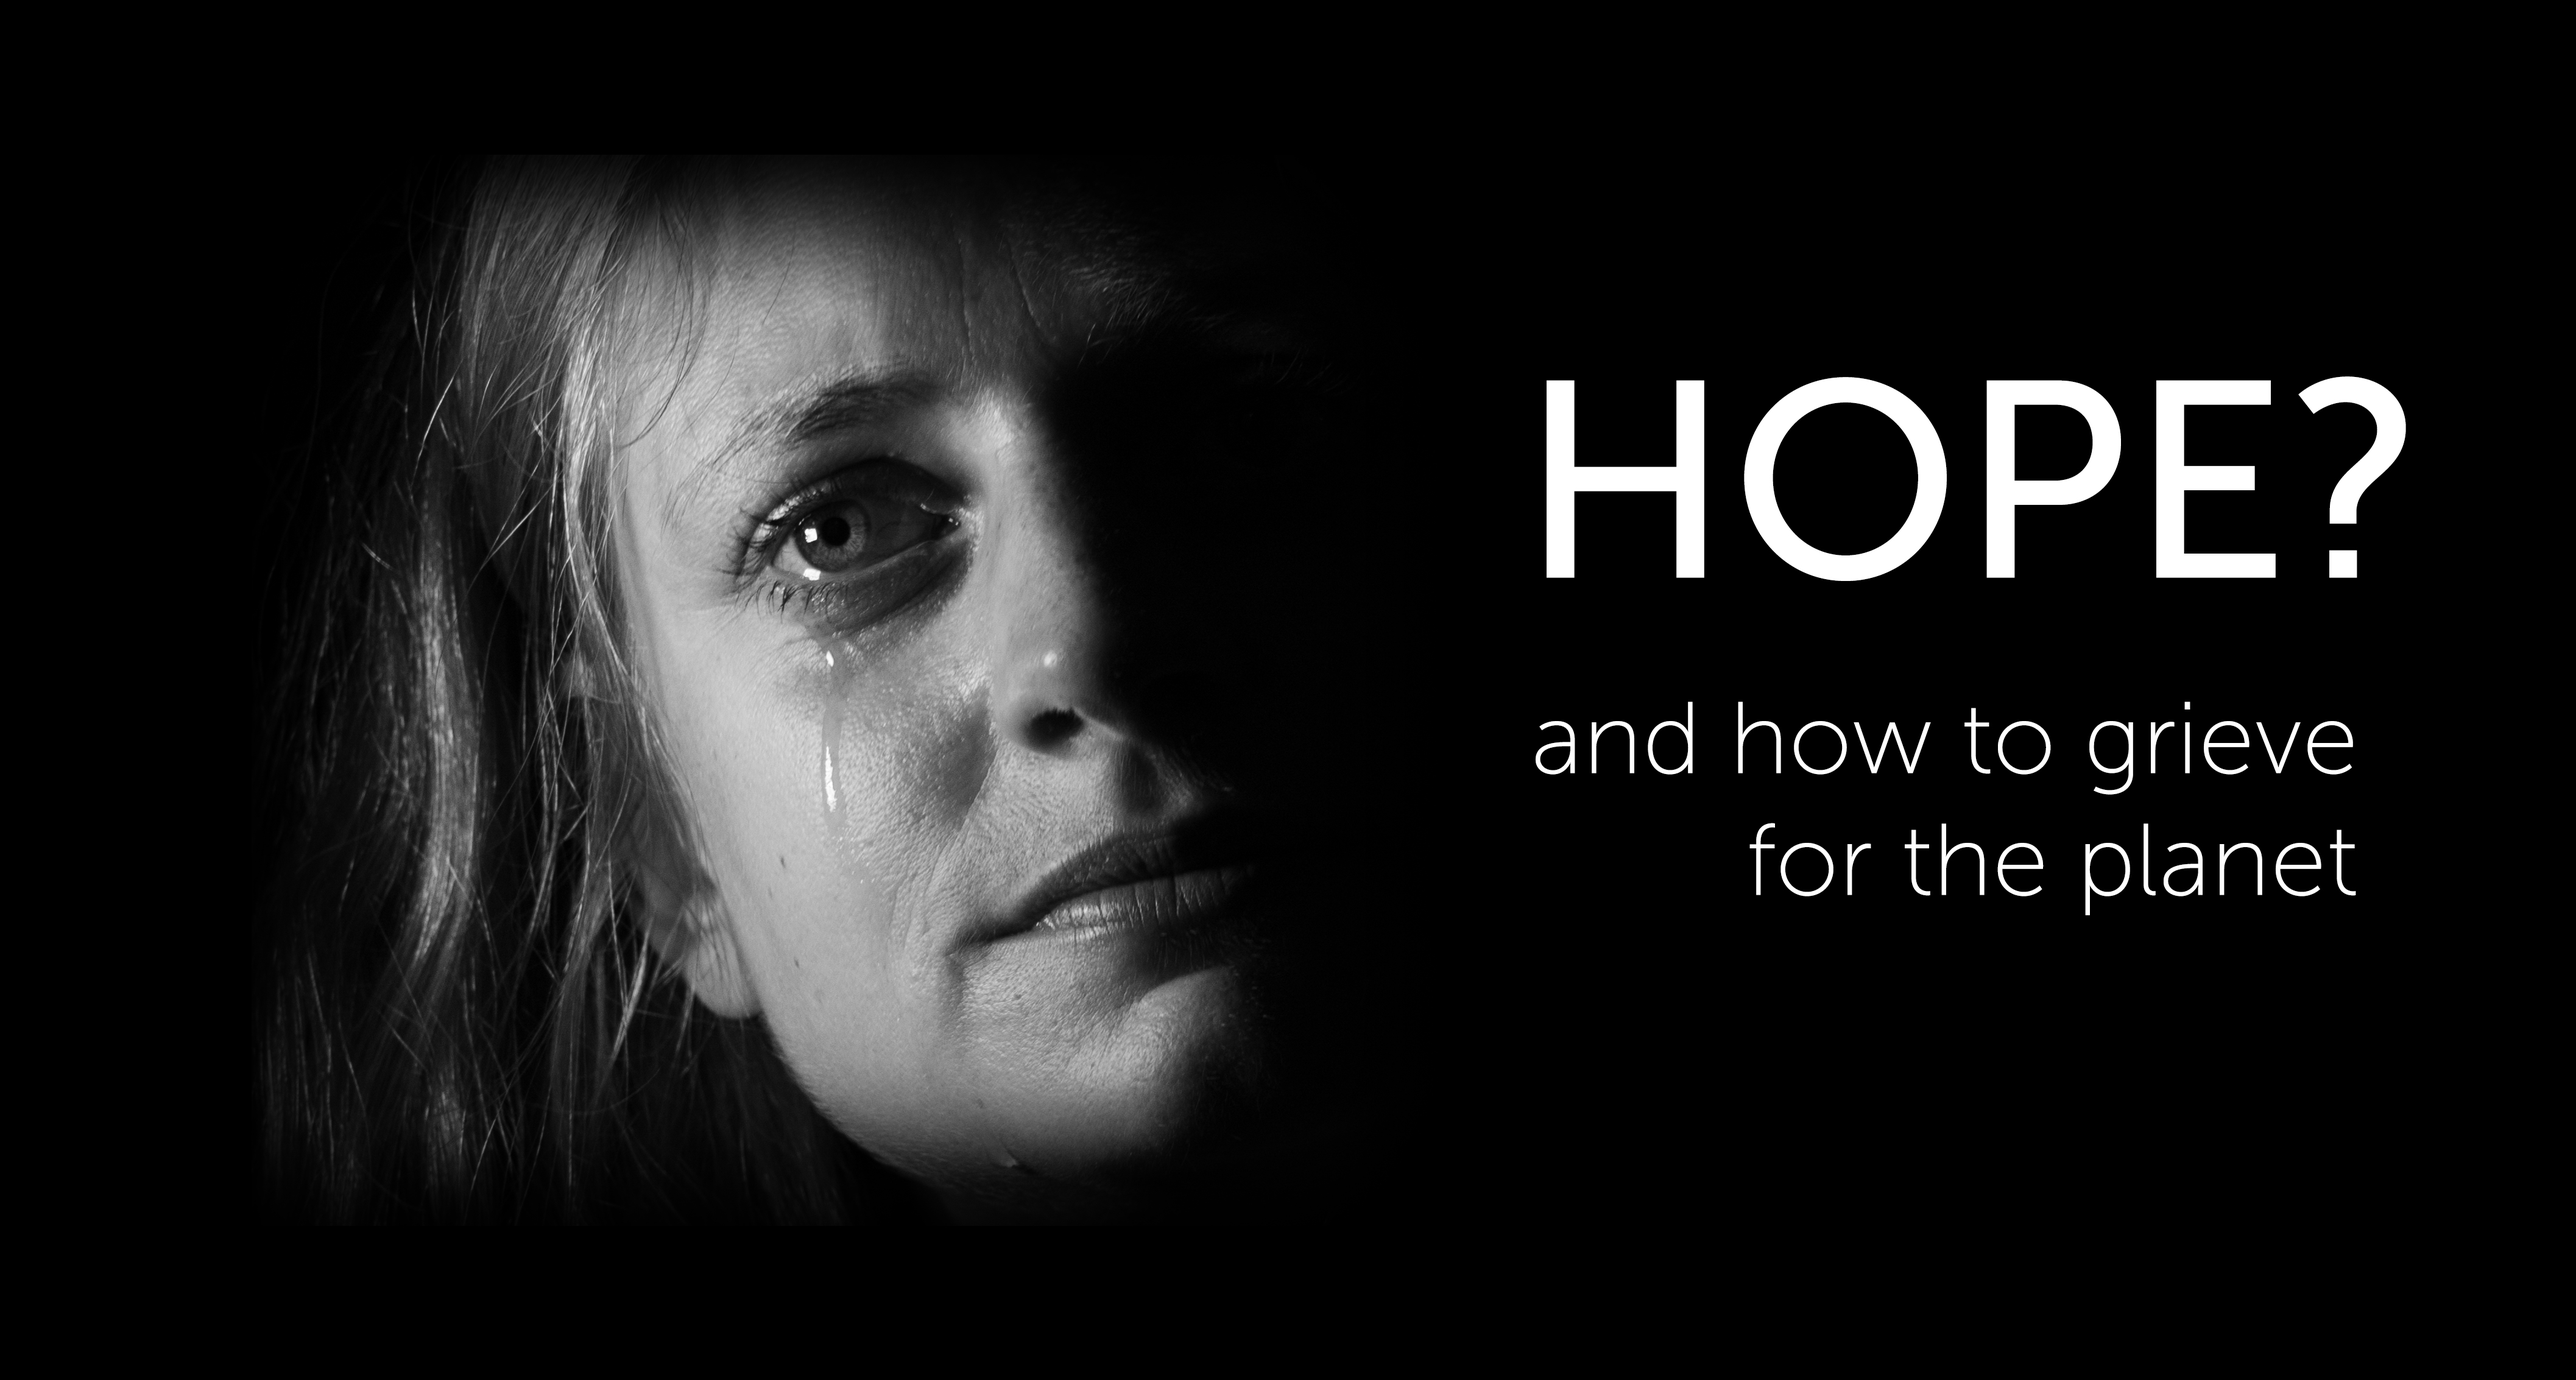
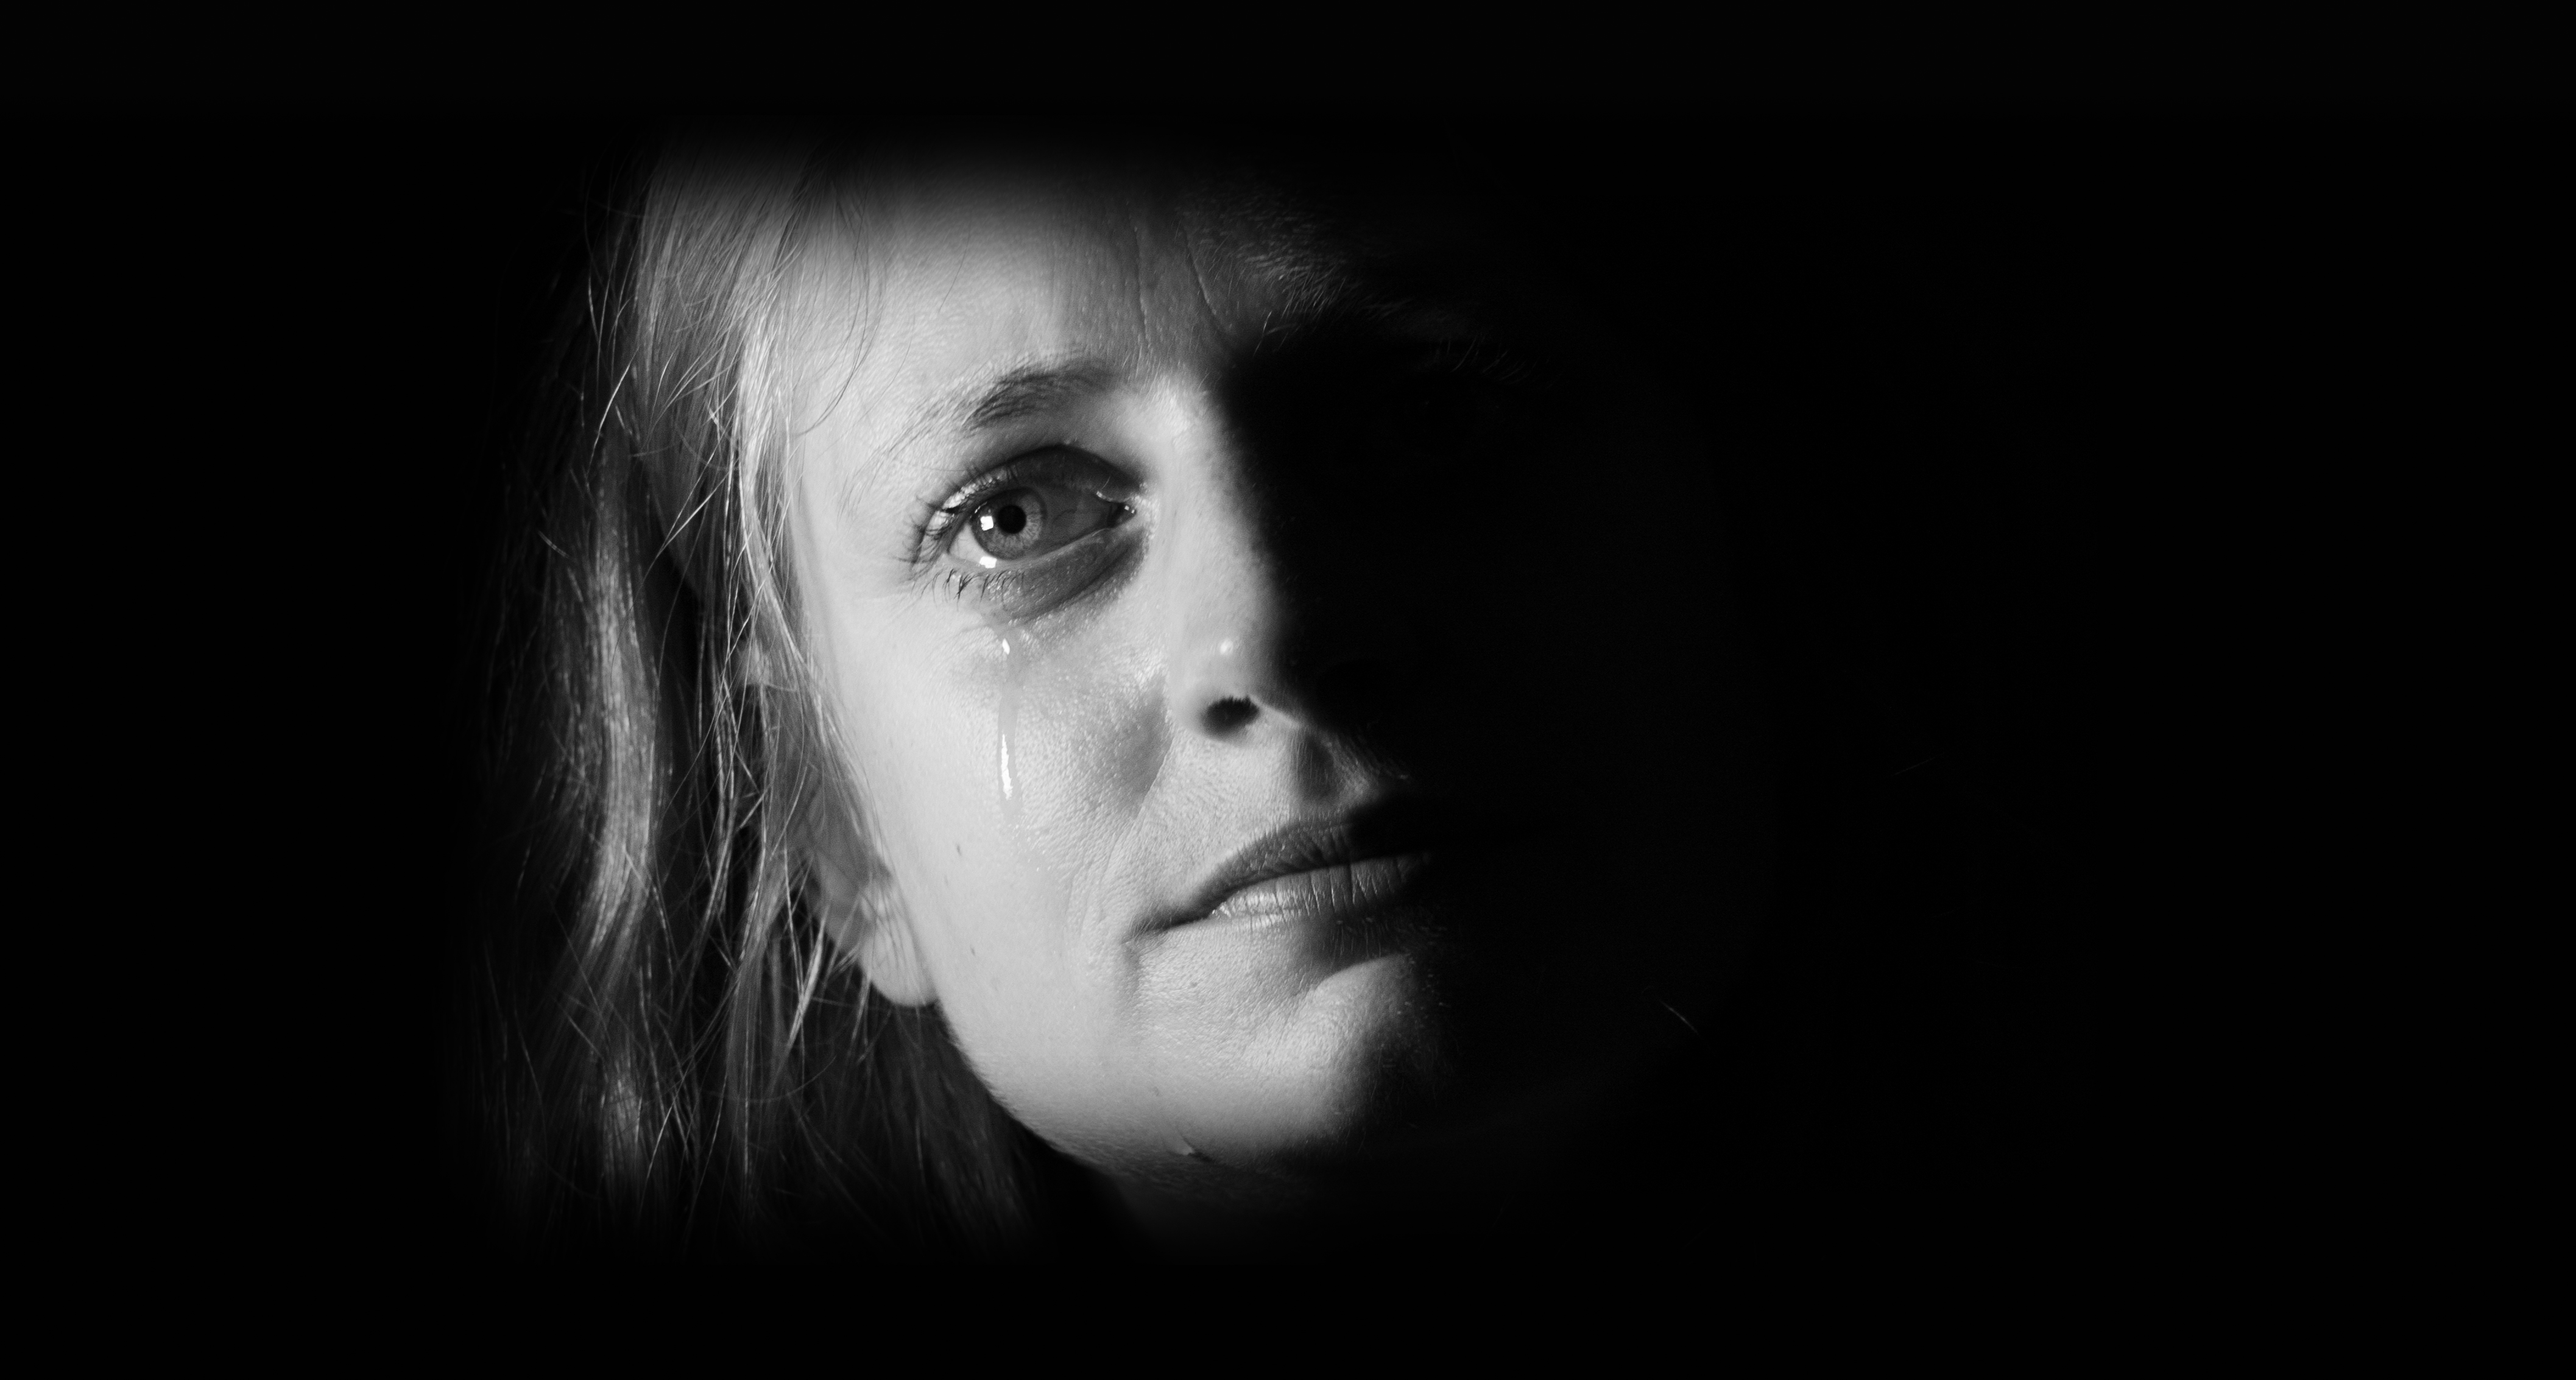
update

diff --git a/index.html b/index.html
@@ -40,6 +40,8 @@
             <div class="container px-4 px-lg-5 d-flex h-100 align-items-center justify-content-end">
                 <div class="d-flex justify-content-center">
                     <div class="text-center">
+                        <h1 class="mx-auto my-0 text-uppercase" style="font-family:'Museo Slab',sans-serif;font-weight: 600;">Hope?</h1><br>
+                        <h2 class="text-white mb-4" style="font-family:'Museo Slab',sans-serif;font-size:1.75rem;font-weight: 200;"> and how to grieve<br> for the planet</h2>
                     </div>
                 </div>
             </div>
